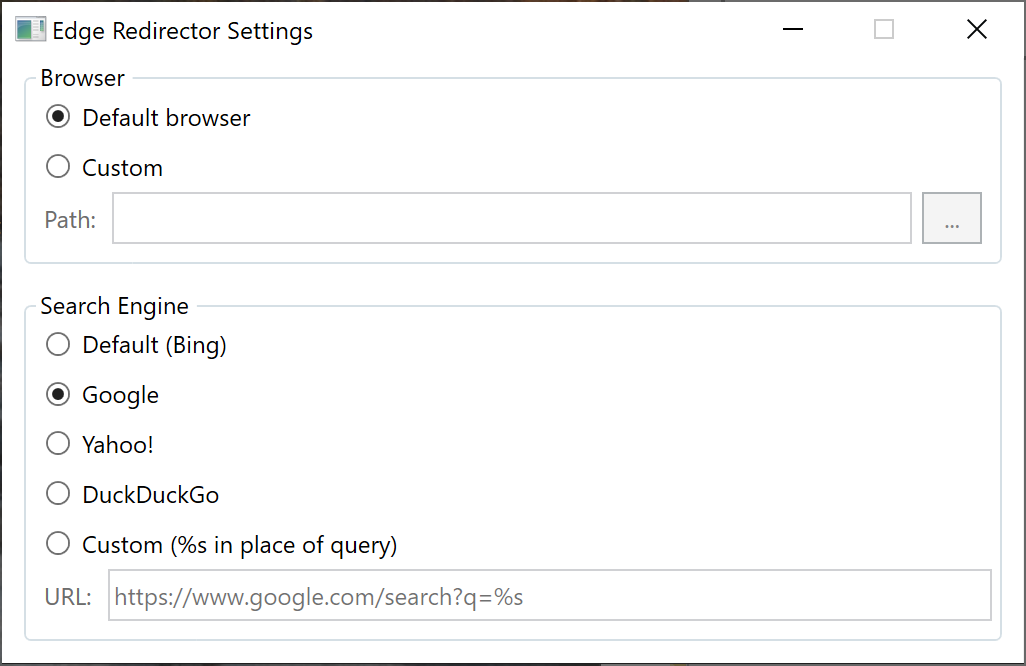
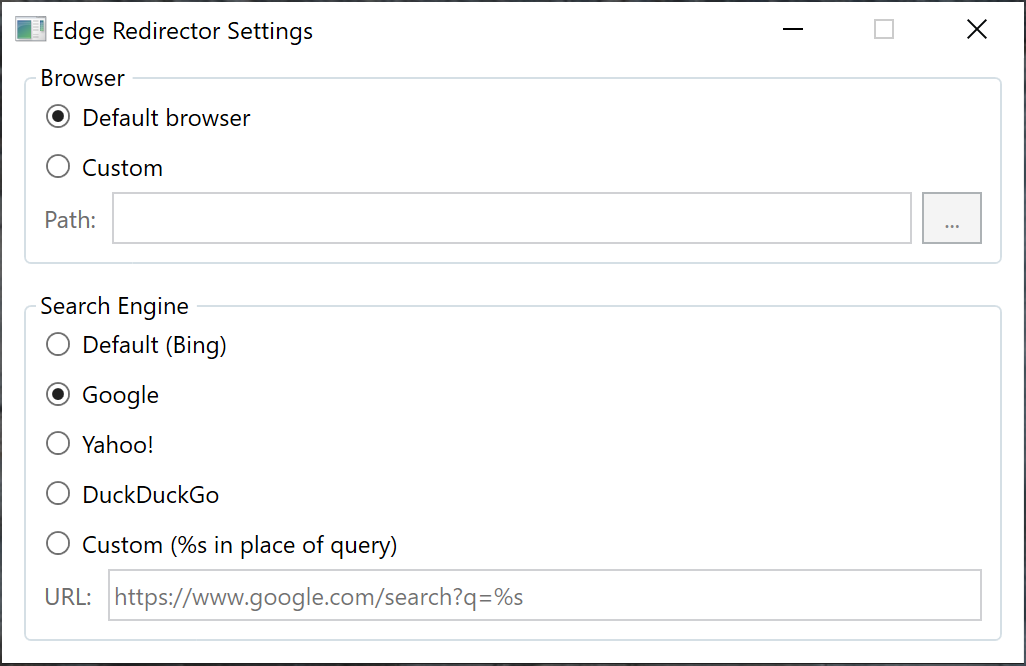
Minor ui fix

diff --git a/src/EdgeRedirector.Gui/SettingsWindow.xaml b/src/EdgeRedirector.Gui/SettingsWindow.xaml
@@ -73,7 +73,8 @@
                 <DockPanel Margin="0,0,0,5"
                            IsEnabled="{Binding IsChecked, ElementName=SearchEngineCustomRadioButton}">
                     <Label Content="URL: " />
-                    <TextBox Text="{Binding SearchEngine}" />
+                    <TextBox Text="{Binding SearchEngine}"
+                             Margin="0,0,5,0" />
                 </DockPanel>
             </StackPanel>
         </GroupBox>
